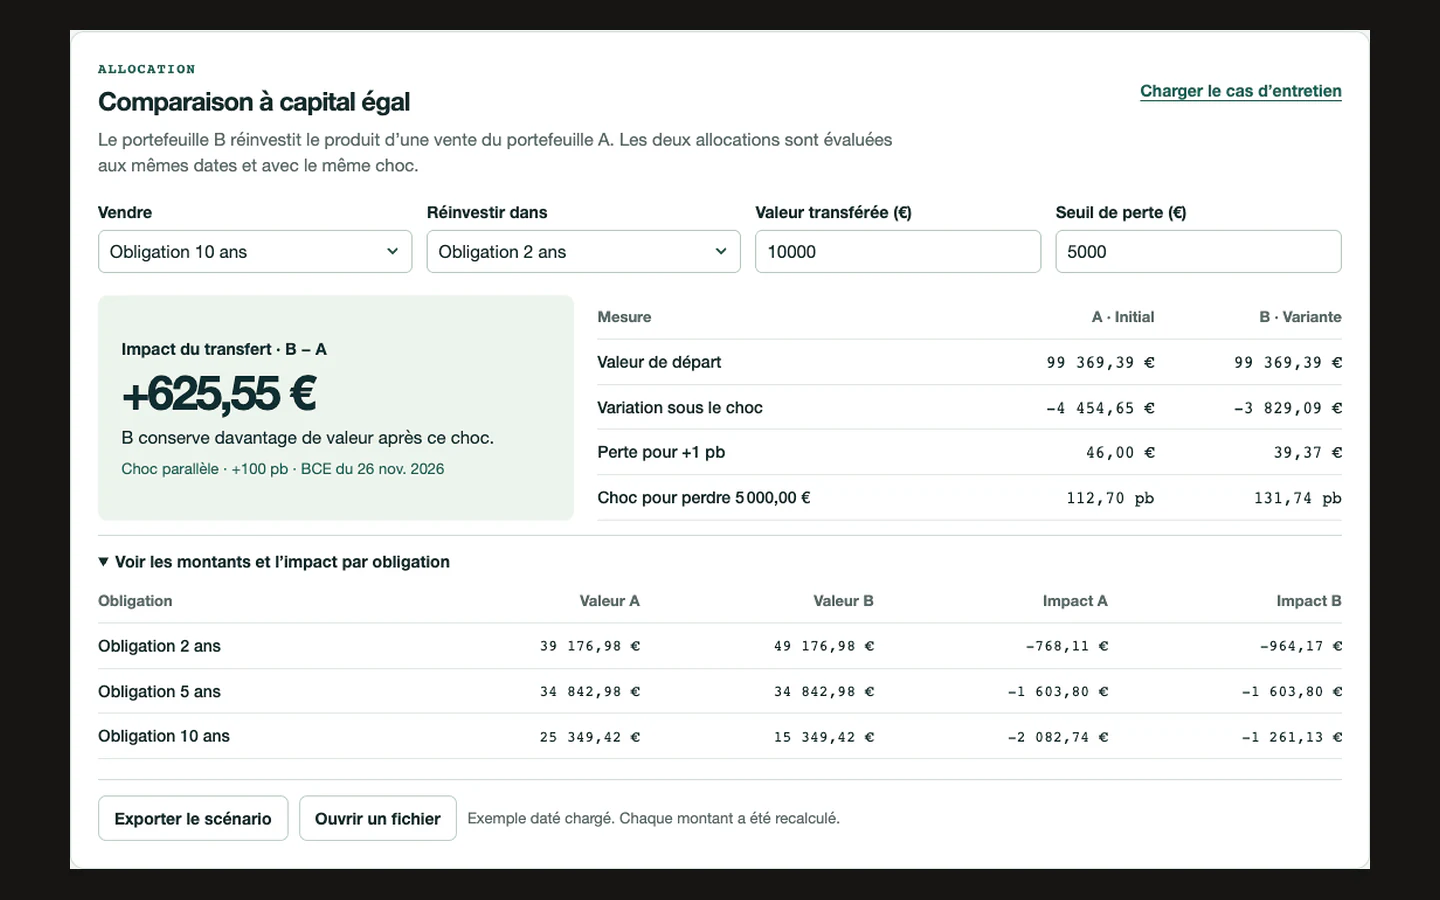
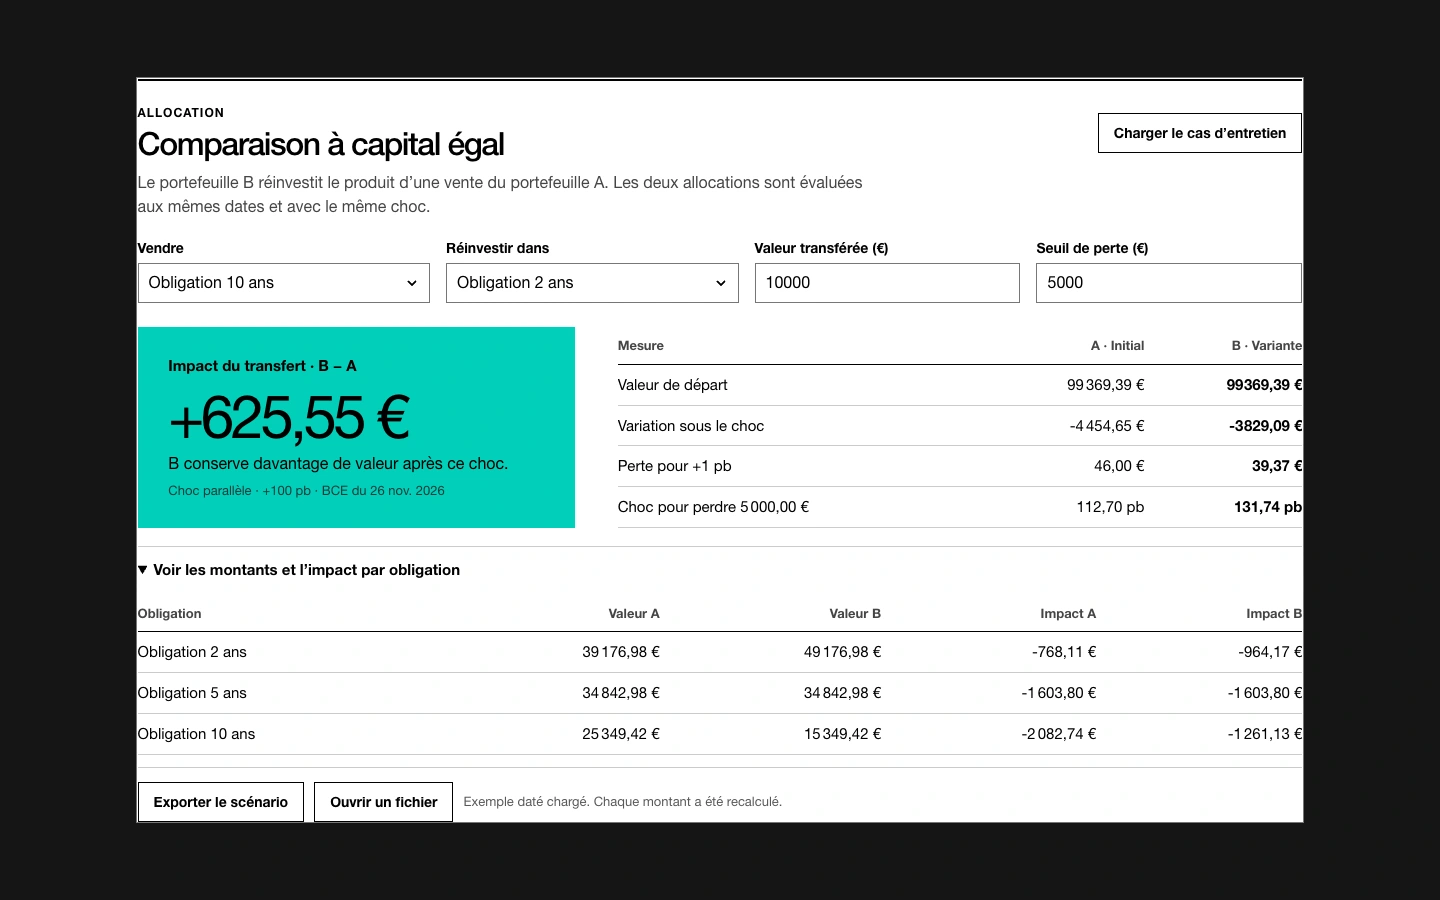
Match the Bond Stress Lab feature to the new dashboard design

diff --git a/index.html b/index.html
@@ -287,9 +287,15 @@ SQL uses a generic database symbol. -->
         </article>
 
         <article id="bond-stress-lab" class="project project-featured" data-project>
-          <p class="project-meta">Fixed income · personal project · November 2026</p>
-          <h3 class="project-title"><a href="https://bond-stress-lab.vercel.app/?cas=entretien#comparer">Bond Stress Lab</a></h3>
-          <p class="project-tagline">If interest rates rise by one percentage point, how much loss could a shorter bond portfolio avoid?</p>
+          <header class="bond-heading">
+            <p class="project-meta">Fixed income · personal project · November 2026</p>
+            <h3 class="project-title"><a href="https://bond-stress-lab.vercel.app/?cas=entretien#comparer">Bond Stress Lab</a></h3>
+            <p class="project-tagline">If interest rates rise by one percentage point, how much loss could a shorter bond portfolio avoid?</p>
+            <p class="project-links">
+              <a class="ext" href="https://bond-stress-lab.vercel.app/?cas=entretien#comparer">Try the scenario (French)</a>
+              <a class="ext" href="https://github.com/youssefmir/bond-stress-lab">GitHub repository</a>
+            </p>
+          </header>
           <figure class="shot">
             <a href="https://bond-stress-lab.vercel.app/?cas=entretien#comparer" tabindex="-1">
               <picture>
@@ -299,18 +305,16 @@ SQL uses a generic database symbol. -->
             </a>
             <figcaption>Both portfolios start with the same market value. The table shows how each bond contributes to the change.</figcaption>
           </figure>
-          <p>The worked example moves €10,000 from a ten-year bond into a two-year bond. Using the European Central Bank’s yield curve for 26 November 2026, the same rate rise produces a simulated loss of €3,829.09 after the transfer, down from €4,454.65. If rates fall, the shorter portfolio also gains less.</p>
-          <p>A French-language assistant can run a rate shock and explain which holding drives the result. The scenario file saves the positions and the six dated rates so another analyst can replay it. An independent Python calculation checks the example to the cent.</p>
-          <div class="skills"><span class="k">Skills</span><ul>
-            <li><button type="button" class="skill" data-skill="finance-quantitative">Quantitative finance</button></li>
-            <li><button type="button" class="skill" data-skill="analyse-risque">Risk analysis</button></li>
-            <li><button type="button" class="skill" data-skill="machine-learning">Machine learning</button></li>
-          </ul></div>
-          <p class="tools tech-list"><span class="k">Stack</span><span class="tech-badge">JavaScript</span><span class="tech-badge">Python</span><span class="tech-badge">Vercel</span></p>
-          <p class="project-links">
-            <a class="ext" href="https://bond-stress-lab.vercel.app/?cas=entretien#comparer">Try the scenario (French)</a>
-            <a class="ext" href="https://github.com/youssefmir/bond-stress-lab">GitHub repository</a>
-          </p>
+          <div class="bond-details">
+            <p>The worked example moves €10,000 from a ten-year bond into a two-year bond. Using the European Central Bank’s yield curve for 26 November 2026, the same rate rise produces a simulated loss of €3,829.09 after the transfer, down from €4,454.65. If rates fall, the shorter portfolio also gains less.</p>
+            <p>A French-language assistant can run a rate shock and explain which holding drives the result. The scenario file saves the positions and the six dated rates so another analyst can replay it. An independent Python calculation checks the example to the cent.</p>
+            <div class="skills"><span class="k">Skills</span><ul>
+              <li><button type="button" class="skill" data-skill="finance-quantitative">Quantitative finance</button></li>
+              <li><button type="button" class="skill" data-skill="analyse-risque">Risk analysis</button></li>
+              <li><button type="button" class="skill" data-skill="machine-learning">Machine learning</button></li>
+            </ul></div>
+            <p class="tools tech-list"><span class="k">Stack</span><span class="tech-badge">JavaScript</span><span class="tech-badge">Python</span><span class="tech-badge">Vercel</span></p>
+          </div>
         </article>
 
         <article id="notionnel" class="project project-featured" data-project>

diff --git a/assets/css/style.css b/assets/css/style.css
@@ -740,6 +740,139 @@ html:not(.js) .js-only {
 }
 
 
+/* Fiche de risque obligataire : les règles restent limitées à ce projet. */
+@media screen {
+  #bond-stress-lab {
+    --bond-accent: #00cfba;
+    --bond-surface: #fff;
+    --bond-ink: #000;
+    --bond-secondary: #454545;
+    --bond-line: #ccc;
+    --bond-inset: clamp(1.1rem, 3.3vw, 2.65rem);
+    margin-block-end: 3rem;
+    padding: 0;
+    scroll-margin-top: 1rem;
+    border: 1px solid var(--bond-line);
+    background: var(--bond-surface);
+    color: var(--bond-ink);
+    font-family: "Helvetica Neue", Arial, sans-serif;
+  }
+
+  #bond-stress-lab .bond-heading {
+    padding: var(--bond-inset);
+    border-top: 0.4rem solid var(--bond-accent);
+    background: #000;
+    color: #fff;
+  }
+
+  #bond-stress-lab .project-meta {
+    margin-bottom: 0.9rem;
+    color: #dedede;
+    font: 600 0.82rem/1.45 "Helvetica Neue", Arial, sans-serif;
+  }
+
+  #bond-stress-lab .project-title {
+    font-weight: 500;
+    font-size: clamp(2.6rem, 5.2vw, 4rem);
+    line-height: 0.99;
+    letter-spacing: -0.045em;
+  }
+
+  #bond-stress-lab .project-title a:hover { color: var(--bond-accent); }
+
+  #bond-stress-lab .project-tagline {
+    max-width: 48ch;
+    margin-top: 0.85rem;
+    color: #f2f2f2;
+    font-size: clamp(1.05rem, 1.7vw, 1.3rem);
+    font-style: normal;
+    line-height: 1.4;
+  }
+
+  #bond-stress-lab .project-links { margin-top: 1.45rem; gap: 0.6rem; }
+  #bond-stress-lab .project-links a {
+    display: inline-flex;
+    align-items: center;
+    min-height: 44px;
+    padding: 0.55rem 1rem;
+    border: 1px solid #fff;
+    color: #fff;
+    font: 650 0.93rem/1.3 "Helvetica Neue", Arial, sans-serif;
+    text-decoration: none;
+  }
+
+  #bond-stress-lab .project-links a:first-child {
+    border-color: var(--bond-accent);
+    background: var(--bond-accent);
+    color: #000;
+  }
+  #bond-stress-lab .project-links a::after { content: none; }
+  #bond-stress-lab .project-links a:hover { background: #fff; color: #000; border-color: #fff; }
+  #bond-stress-lab .bond-heading a:focus-visible { outline: 2px solid #fff; outline-offset: 4px; }
+
+  #bond-stress-lab .shot { max-width: none; margin: 0; }
+  #bond-stress-lab .shot img { border: 0; border-radius: 0; }
+  #bond-stress-lab .shot figcaption {
+    margin: 0;
+    padding: 0.8rem var(--bond-inset);
+    border-block: 1px solid var(--bond-line);
+    color: var(--bond-secondary);
+    font: 400 0.85rem/1.5 "Helvetica Neue", Arial, sans-serif;
+  }
+
+  #bond-stress-lab .bond-details {
+    display: grid;
+    gap: 1.05rem;
+    padding: var(--bond-inset);
+    font-size: 1rem;
+    line-height: 1.55;
+  }
+
+  #bond-stress-lab .skills,
+  #bond-stress-lab .tools {
+    margin: 0;
+    color: var(--bond-secondary);
+    font: 400 0.87rem/1.5 "Helvetica Neue", Arial, sans-serif;
+  }
+  #bond-stress-lab .skills { border-top: 1px solid var(--bond-line); padding-top: 1rem; }
+  #bond-stress-lab .k { color: var(--bond-ink); font-weight: 700; }
+  #bond-stress-lab .skill:hover,
+  #bond-stress-lab .skill.is-active { color: var(--bond-ink); text-decoration-color: currentColor; }
+  #bond-stress-lab .tech-badge {
+    border: 0;
+    border-radius: 0;
+    min-height: auto;
+    padding: 0;
+    background: none;
+    color: inherit;
+    font: inherit;
+  }
+  #bond-stress-lab .tech-badge + .tech-badge { border-left: 1px solid var(--bond-line); padding-left: 0.55rem; }
+}
+
+@media screen and (min-width: 65em) {
+  #bond-stress-lab .bond-details {
+    grid-template-columns: repeat(2, minmax(0, 1fr));
+    column-gap: 2rem;
+  }
+  #bond-stress-lab .skills,
+  #bond-stress-lab .tools { grid-column: 1 / -1; }
+}
+
+@media screen and (prefers-color-scheme: dark) {
+  #bond-stress-lab {
+    --bond-surface: #171717;
+    --bond-ink: #fff;
+    --bond-secondary: #dedede;
+    --bond-line: #525252;
+  }
+}
+
+@media print {
+  #bond-stress-lab .bond-details > p { margin-top: 2mm; }
+}
+
+
 /* 9. Compétences des projets --------------------------------------------------
    Chaque projet liste les compétences qu’il démontre. Le filtre en tête de la
    section Projets est généré à partir de ces listes (script en bas de page). */
